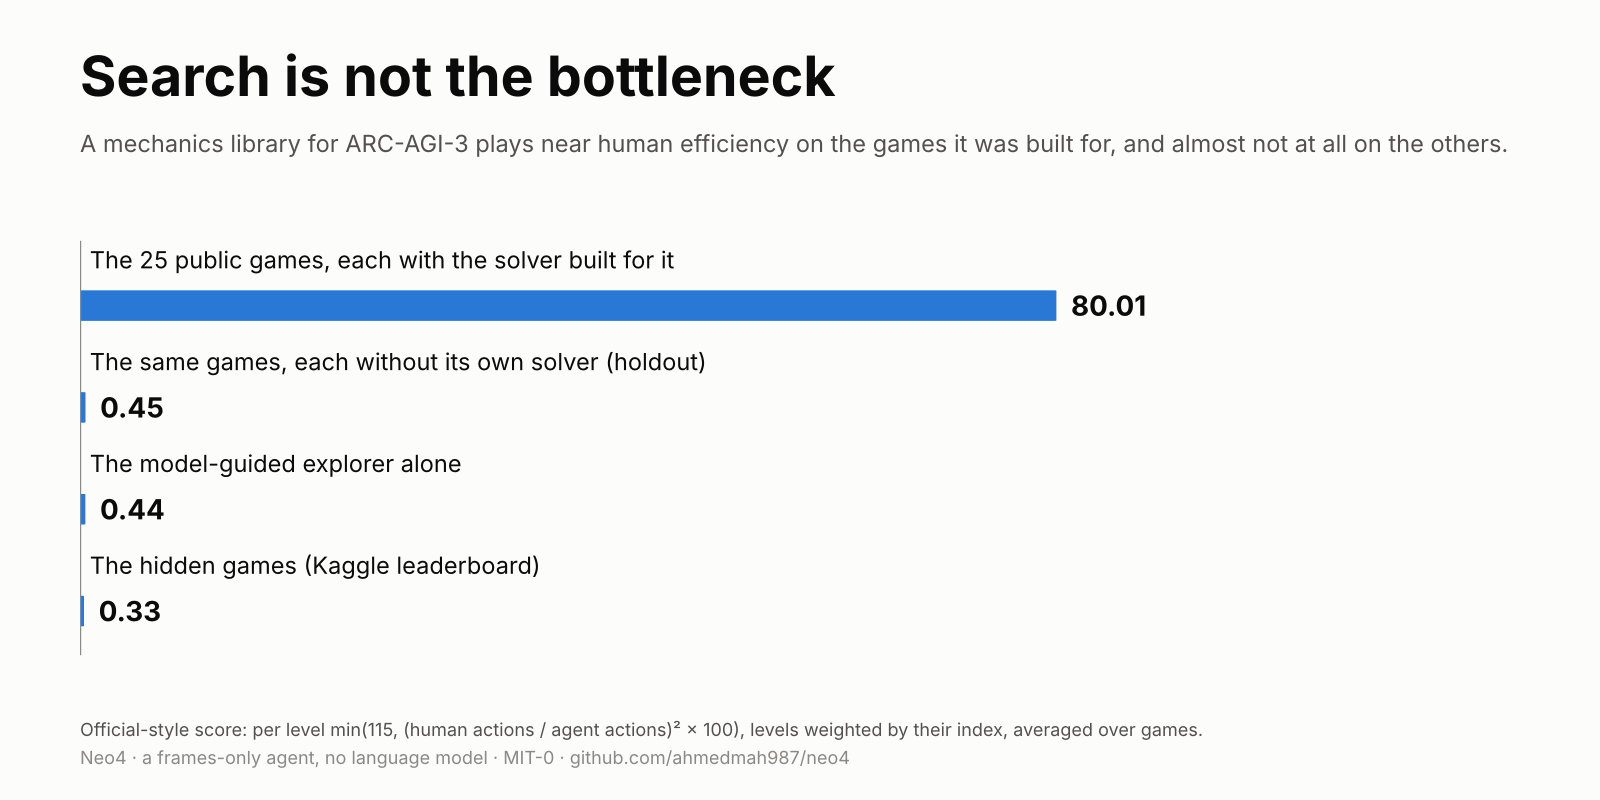
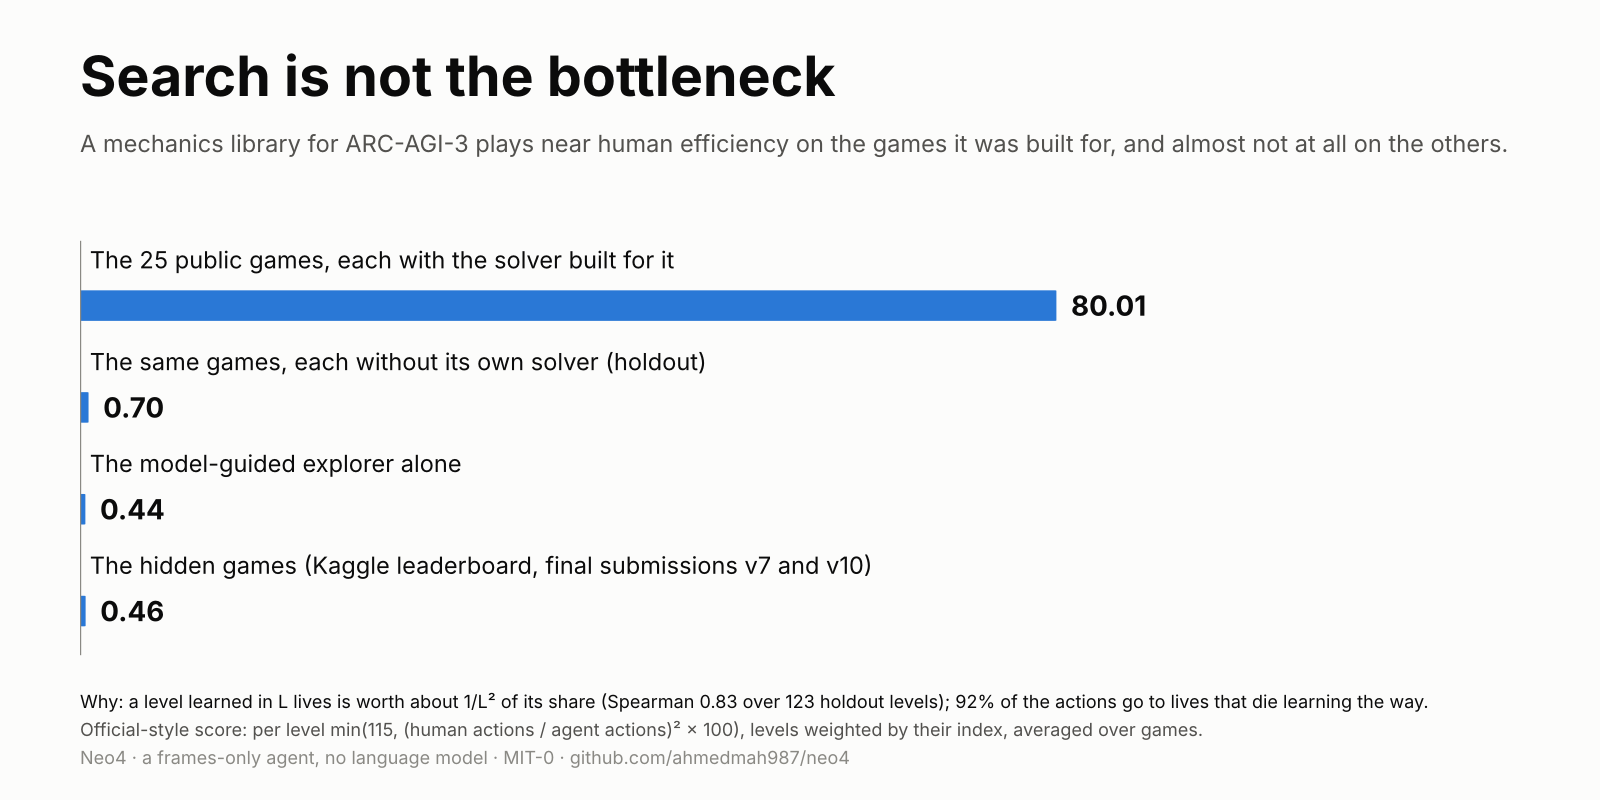
Cover: final numbers (holdout 0.70, hidden 0.46 for v7 and v10) and the 1/L^2 finding
Claude-Session: https://claude.ai/code/session_01G8ybaVVcsoj7U5yDyvwQGM

diff --git a/paper/make_cover.py b/paper/make_cover.py
@@ -10,9 +10,9 @@ from matplotlib.patches import FancyBboxPatch
 SURFACE, INK, INK2, MUTED, SERIES = "#fcfcfb", "#0b0b0b", "#52514e", "#8a8984", "#2a78d6"
 ROWS = [  # label, official-style score
     ("The 25 public games, each with the solver built for it", 80.01),
-    ("The same games, each without its own solver (holdout)", 0.45),
+    ("The same games, each without its own solver (holdout)", 0.70),
     ("The model-guided explorer alone", 0.44),
-    ("The hidden games (Kaggle leaderboard)", 0.33),
+    ("The hidden games (Kaggle leaderboard, final submissions v7 and v10)", 0.46),
 ]
 
 fig = plt.figure(figsize=(16, 8), dpi=100, facecolor=SURFACE)
@@ -32,6 +32,8 @@ ax.set_xlim(0, 118)
 ax.set_ylim(-0.5, n - 0.1)
 ax.axis("off")
 ax.plot([0, 0], [-0.4, n - 0.35], color=MUTED, linewidth=1)
+fig.text(0.05, 0.115, "Why: a level learned in L lives is worth about 1/L² of its share (Spearman 0.83 over 123 "
+         "holdout levels); 92% of the actions go to lives that die learning the way.", fontsize=13, color=INK)
 fig.text(0.05, 0.08, "Official-style score: per level min(115, (human actions / agent actions)² × 100), levels weighted "
          "by their index, averaged over games.", fontsize=13, color=INK2)
 fig.text(0.05, 0.045, "Neo4 · a frames-only agent, no language model · MIT-0 · github.com/ahmedmah987/neo4",
